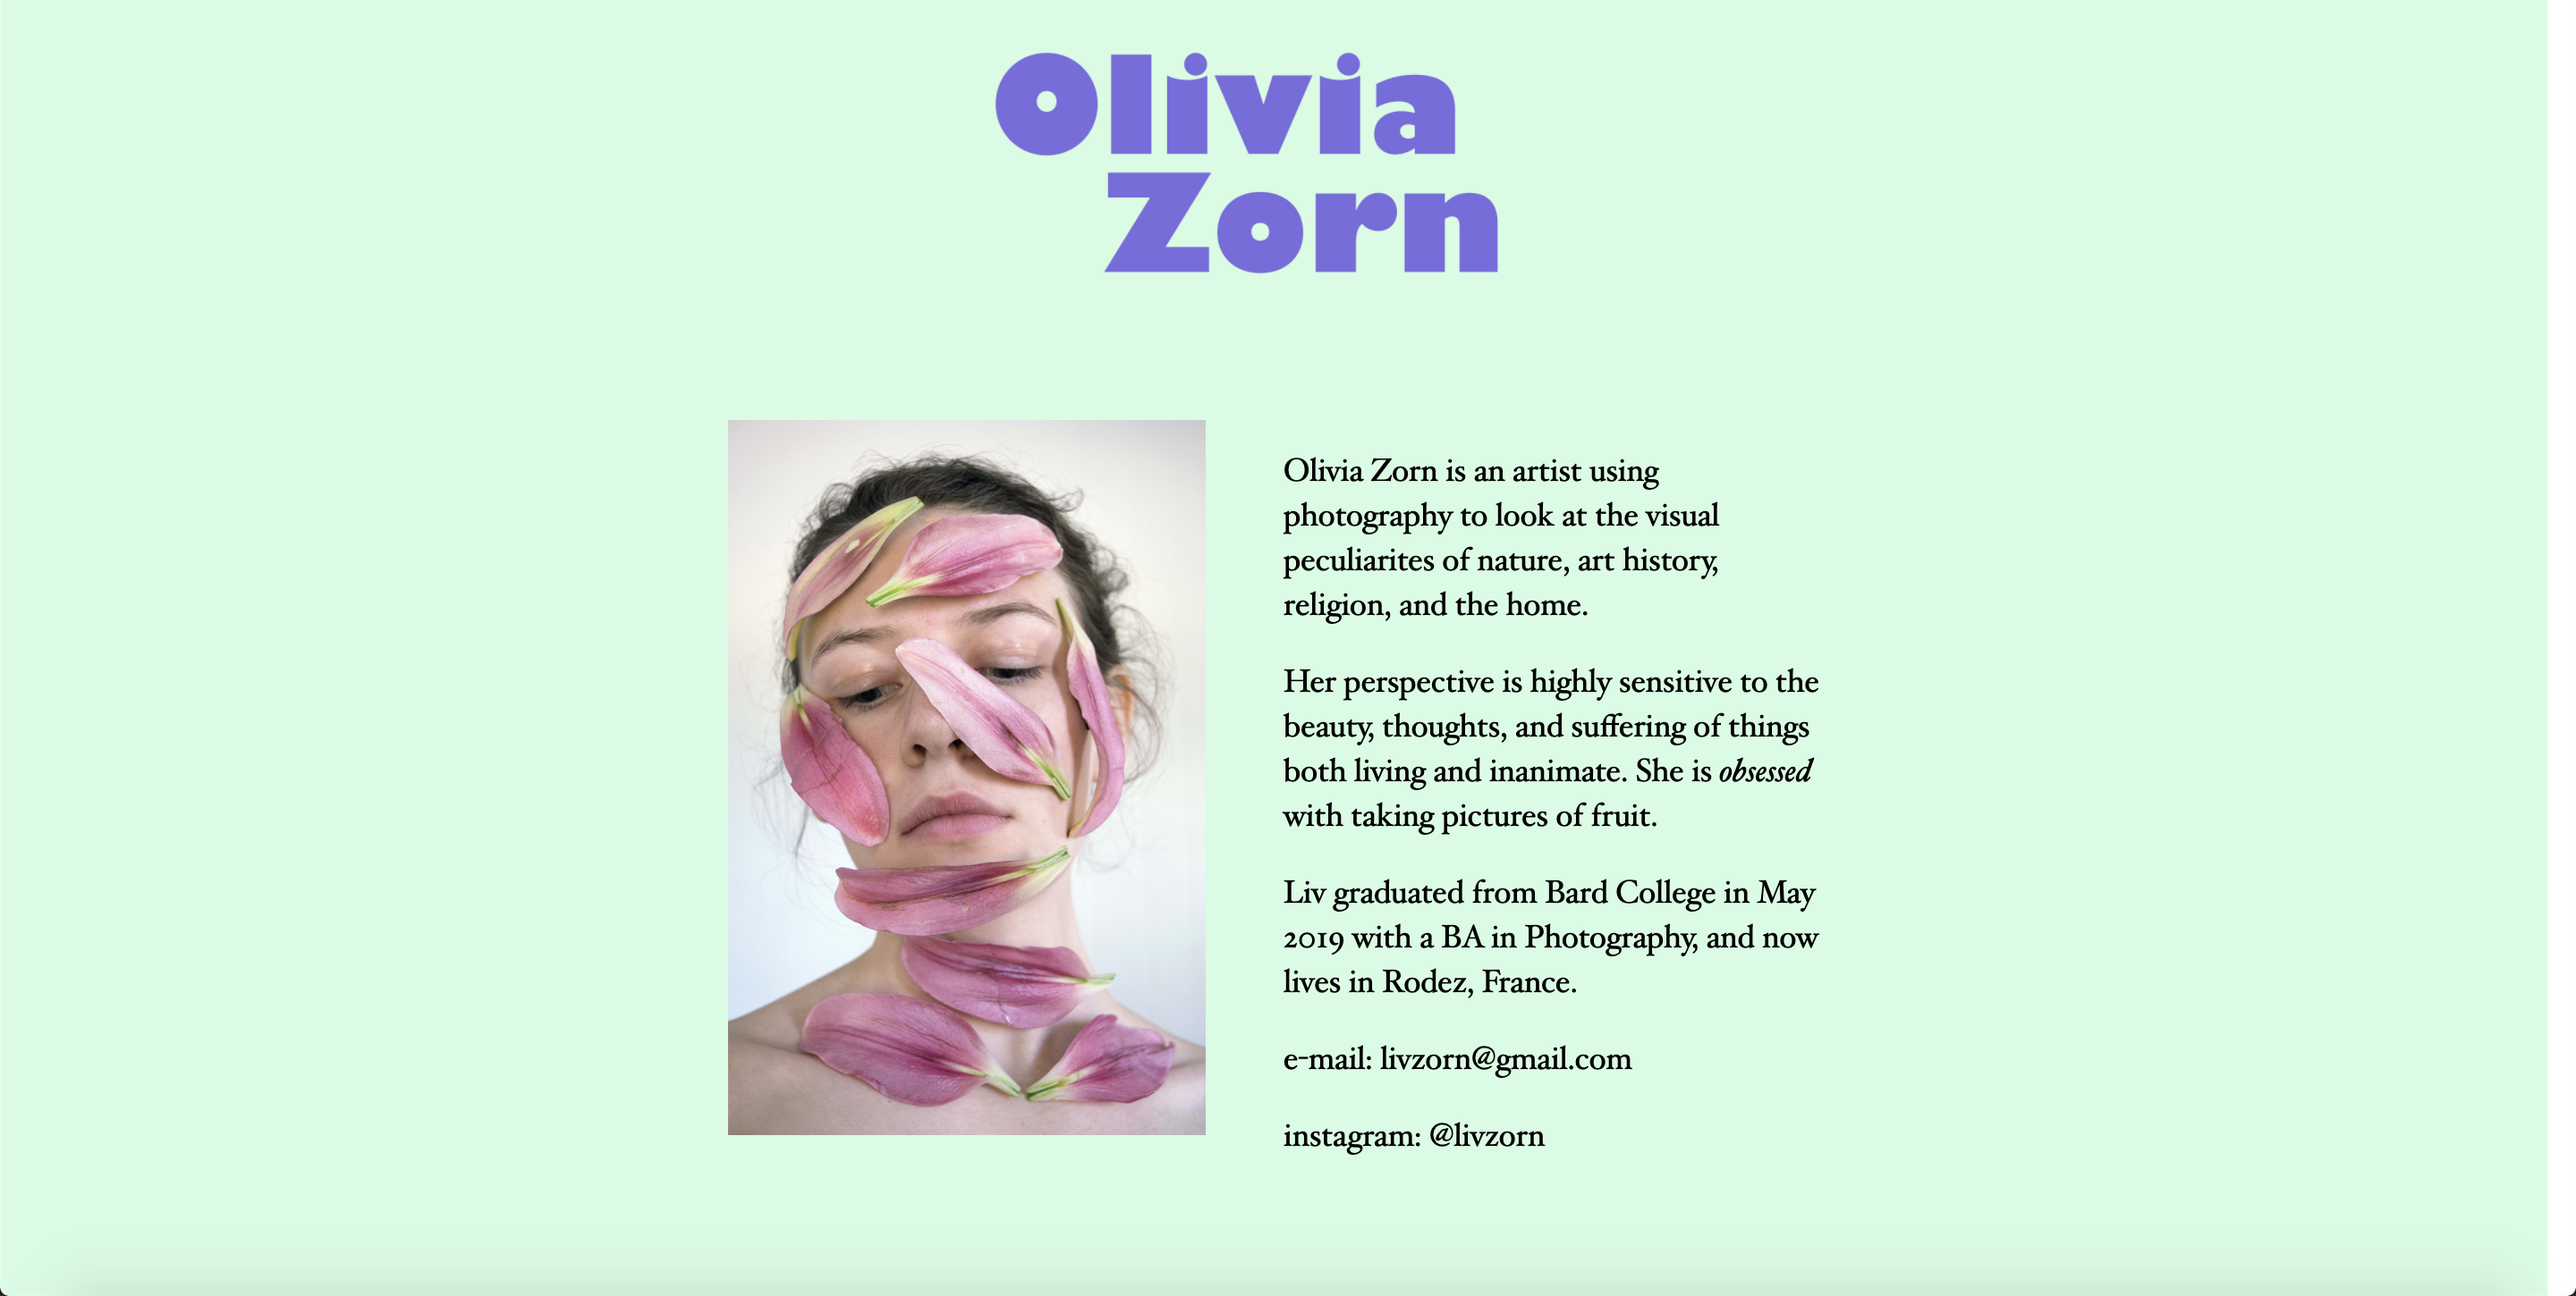
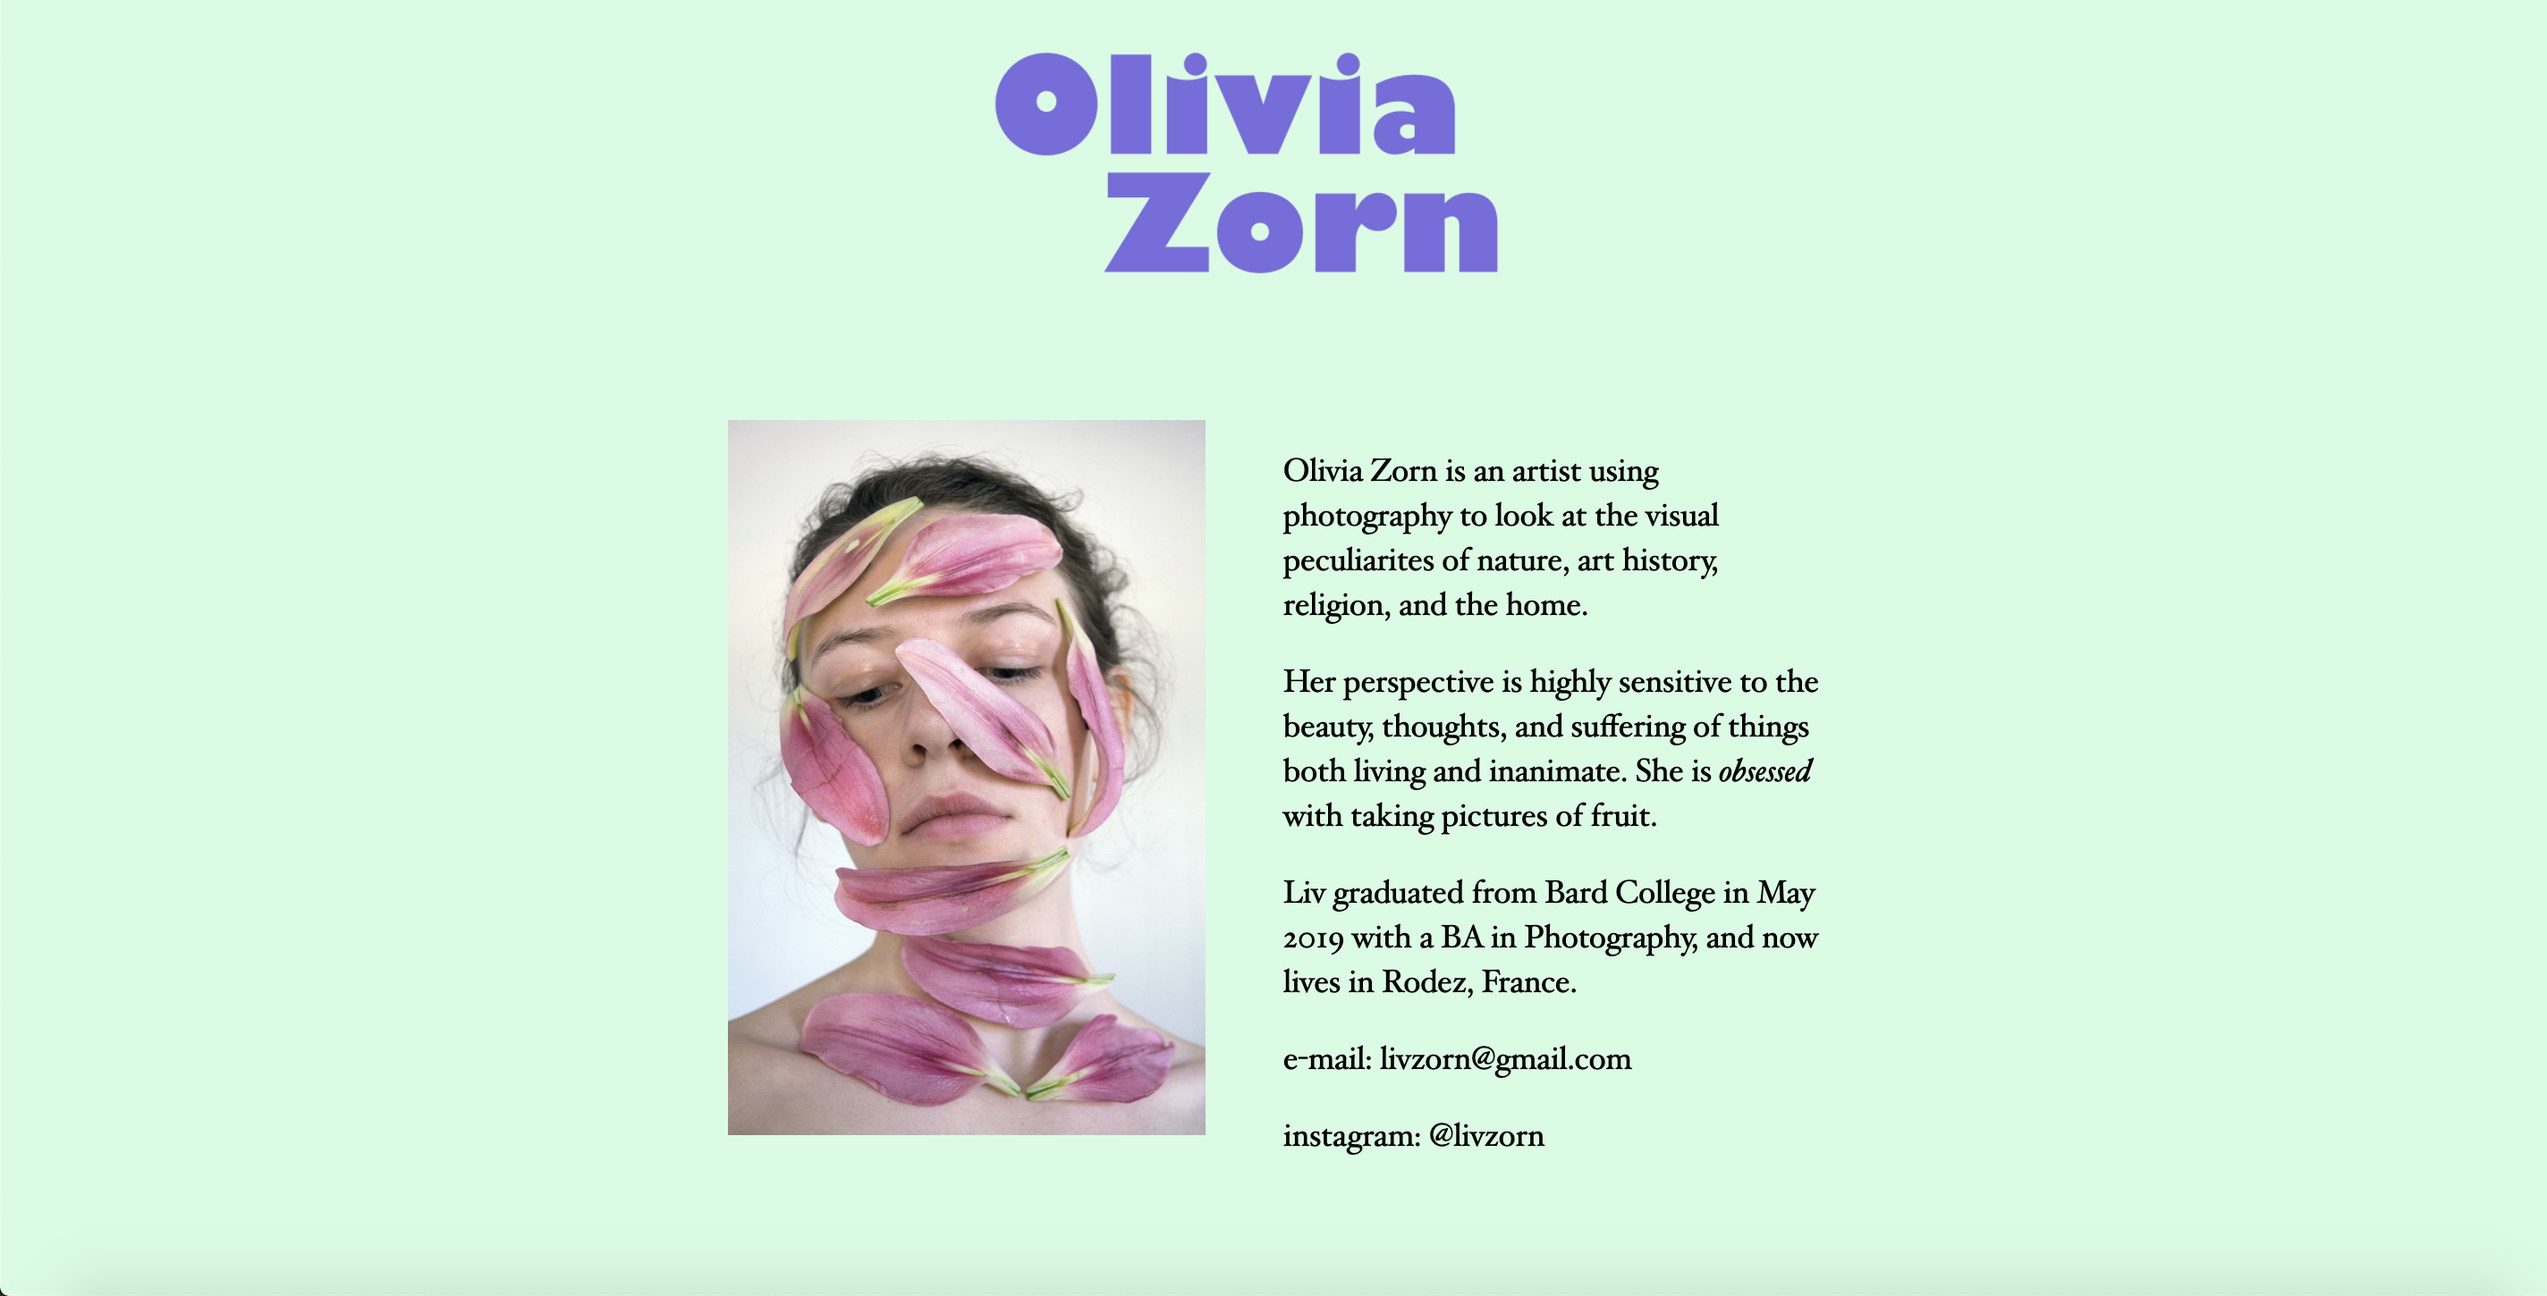
added about section

diff --git a/app/assets/stylesheets/pages/_home.scss b/app/assets/stylesheets/pages/_home.scss
@@ -39,11 +39,39 @@
   height: 80vh;
   width: 100vw;
   text-align: center;
-  padding: 50px;
+  padding: 25px;
 }
+
+.i-am {
+  margin-left: 100px;
+}
+
+.i-studied {
+  margin-left: 200px;
+  margin-top: 40px;
+}
+
+.tech-stack {
+  margin-left: 300px;
+  margin-top: 40px;
+}
+
+.take-a-look {
+  margin-left: 400px;
+  margin-top: 40px;
+}
+
+.description {
+  width: 660px;
+  font-size: 20px;
+  margin: 20px auto;
+}
+
+
 
 .conscious-clicks {
   background: linear-gradient(360deg, #FEFFBE 0%, rgba(255, 255, 255, 0.0309089) 99.98%, rgba(255, 255, 255, 0.015625) 99.99%, rgba(255, 255, 255, 0) 100%, rgba(255, 255, 255, 0) 100%), #FFFFFF;
+
 }
 
 .cloud-castles {
@@ -56,4 +84,7 @@
 
 .photo-portfolio {
   background: linear-gradient(360deg, #FEFFBE 0%, rgba(255, 255, 255, 0.0309089) 99.98%, rgba(255, 255, 255, 0.015625) 99.99%, rgba(255, 255, 255, 0) 100%, rgba(255, 255, 255, 0) 100%), #FFFFFF;
+  .description {
+    width: 550px;
+  }
 }

diff --git a/app/assets/stylesheets/components/_carousel.scss b/app/assets/stylesheets/components/_carousel.scss
@@ -1,5 +1,11 @@
+.carousel {
+  width: 700px;
+  height: 350px;
+  margin: 40px auto;
+}
+
 .carousel-item img {
-  width: 800px;
-  height: auto;
+  width: 700px;
+  height: 350px;
   object-fit: cover;
 }
